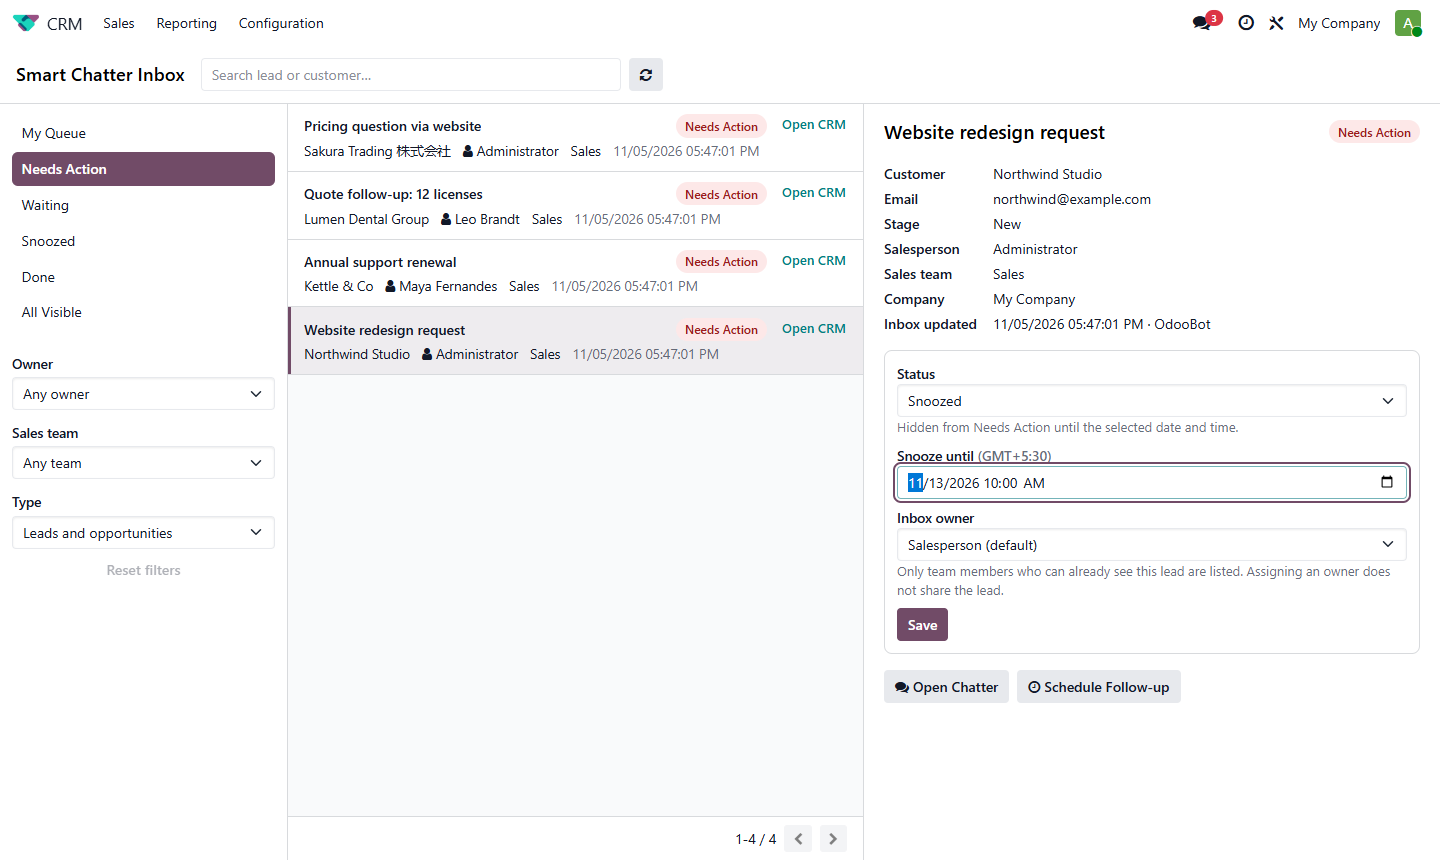
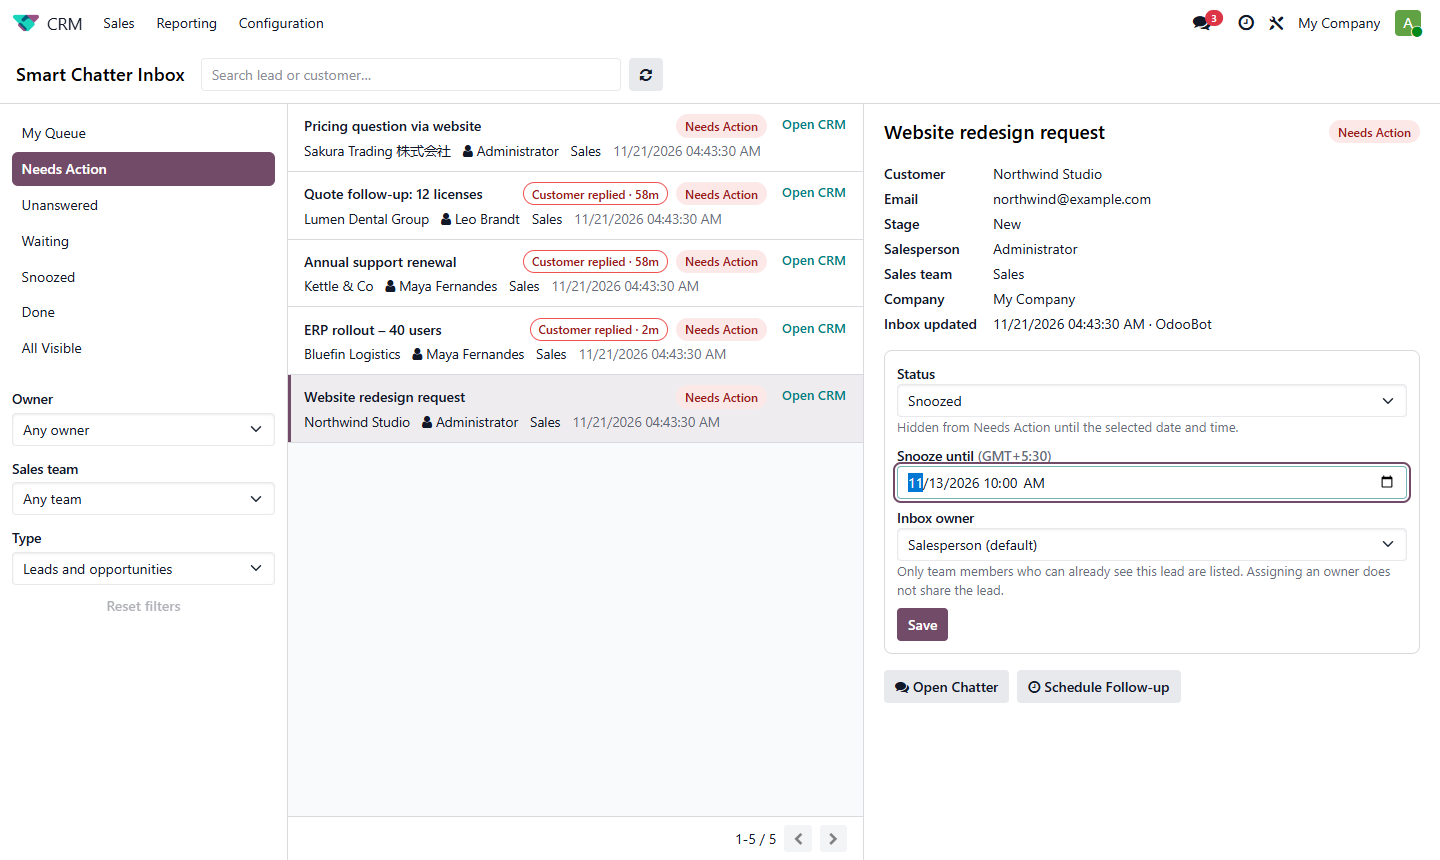
Store listing: Unanswered Leads name, reply-detection demo
- Name "CRM Follow Up Inbox | Unanswered Leads, Reminder & Snooze" and
  summary with "unanswered customer emails" / "unanswered leads"
- Store page: new DETECT demo (gif_reply.gif, a real customer email through
  the mail gateway), Unanswered feature card, two comparison rows, FAQ
  rewritten (how detection works, 17/18 out-of-office caveat), security
  text no longer claims zero privileged code
- hero.png subtitle and numbers.png stats (55+ tests, 4 Odoo versions)
- All GIFs and screenshots re-recorded on 19 with the Unanswered filter
- record_gifs.py: reply scene, snooze date relative to today
- seed_demo.py: restore customer-reply flags on re-run instead of posting
  duplicate emails

diff --git a/sd_smart_chatter_inbox/static/description/index.html b/sd_smart_chatter_inbox/static/description/index.html
@@ -5,8 +5,8 @@
 <!-- ============ HERO ============ -->
 <section class="oe_container" style="padding: 0 0 8px;">
     <img src="hero.png" alt="CRM Follow Up Inbox for Odoo: never lose a lead follow up again. $19 one-time." style="width: 100%; display: block; border-radius: 16px;"/>
-    <h1 style="text-align: center; color: #111827; font-size: 32px; font-weight: 800; margin: 26px 0 6px;">CRM Follow Up Inbox for Odoo: never miss a lead follow up</h1>
-    <p style="text-align: center; color: #4b5563; font-size: 17px; line-height: 1.6; max-width: 820px; margin: 0 auto;">One follow up queue for your whole sales team. See which leads need a reply from you, which are waiting for the customer, snooze a lead until the day you need it, and assign a follow up owner. Works inside Odoo CRM.</p>
+    <h1 style="text-align: center; color: #111827; font-size: 32px; font-weight: 800; margin: 26px 0 6px;">CRM Follow Up Inbox for Odoo: no more unanswered leads</h1>
+    <p style="text-align: center; color: #4b5563; font-size: 17px; line-height: 1.6; max-width: 820px; margin: 0 auto;">One lead follow up queue for your whole sales team. When a customer emails, the lead jumps back to <b>Needs Action</b> and appears in the <b>Unanswered</b> list. When your team replies, it moves to <b>Waiting</b>. Snooze a lead until the day you need it and assign a follow up owner. Works inside Odoo CRM.</p>
     <div style="max-width: 1000px; margin: 22px auto 0; border: 1px solid #c7d2fe; border-radius: 14px; padding: 8px; box-shadow: 0 10px 30px rgba(49,46,129,.18);">
         <img src="gif_filters.gif" alt="Odoo CRM lead follow up queue: search and filter leads by status, owner and team" style="width: 100%; display: block; border-radius: 8px;"/>
     </div>
@@ -33,7 +33,7 @@
             <div style="height: 100%; border: 1px solid #e0e7ff; border-top: 4px solid #4f46e5; border-radius: 12px; padding: 22px;">
                 <p style="font-size: 30px; margin: 0 0 8px;">&#128101;</p>
                 <h3 style="font-size: 20px; font-weight: 700; color: #312e81; margin: 0 0 8px;">Sales teams</h3>
-                <p style="color: #4b5563; font-size: 15px; line-height: 1.6; margin: 0;">Everyone sees which leads are waiting on <b>us</b> and which are waiting on the <b>customer</b>. No more "did anyone reply to this?"</p>
+                <p style="color: #4b5563; font-size: 15px; line-height: 1.6; margin: 0;">Everyone sees which leads are waiting on <b>us</b> and which are waiting on the <b>customer</b>. Customer replies are flagged automatically, so nobody has to ask "did anyone reply to this?"</p>
             </div>
         </div>
         <div class="col-md-4" style="padding: 8px;">
@@ -59,22 +59,29 @@
     <h2 style="text-align: center; color: #111827; font-size: 30px; font-weight: 700; margin: 4px 0 6px;">See it actually happen</h2>
     <p style="text-align: center; color: #4b5563; font-size: 16px; margin: 0 0 28px;">Recorded in a real Odoo database. No mock-ups.</p>
 
+    <div style="border: 1px solid #e0e7ff; border-left: 5px solid #dc2626; border-radius: 12px; padding: 22px; margin-bottom: 26px;">
+        <p style="margin: 0;"><span style="display: inline-block; border: 2px solid #dc2626; color: #dc2626; font-weight: 700; font-size: 13px; padding: 2px 12px; border-radius: 14px;">1 &middot; DETECT</span></p>
+        <h3 style="font-size: 22px; font-weight: 700; color: #111827; margin: 12px 0 6px;">Unanswered leads come back by themselves</h3>
+        <p style="color: #4b5563; font-size: 15px; line-height: 1.6; margin: 0 0 16px;">A customer replies to a lead that was Waiting. The email arrives through Odoo's normal incoming mail, and the lead goes straight back to <b>Needs Action</b> with a <b>Customer replied</b> flag and how long ago they wrote. When your team answers from the chatter, it moves to <b>Waiting</b> again. No one has to triage it by hand.</p>
+        <img src="gif_reply.gif" alt="Odoo CRM unanswered leads: a customer email moves the lead back to Needs Action automatically" style="width: 100%; border-radius: 8px; border: 1px solid #e5e7eb;"/>
+    </div>
+
     <div style="border: 1px solid #e0e7ff; border-left: 5px solid #4f46e5; border-radius: 12px; padding: 22px; margin-bottom: 26px;">
-        <p style="margin: 0;"><span style="display: inline-block; border: 2px solid #4f46e5; color: #4f46e5; font-weight: 700; font-size: 13px; padding: 2px 12px; border-radius: 14px;">1 &middot; TRIAGE</span></p>
+        <p style="margin: 0;"><span style="display: inline-block; border: 2px solid #4f46e5; color: #4f46e5; font-weight: 700; font-size: 13px; padding: 2px 12px; border-radius: 14px;">2 &middot; TRIAGE</span></p>
         <h3 style="font-size: 22px; font-weight: 700; color: #111827; margin: 12px 0 6px;">Set a status and an owner in two clicks</h3>
         <p style="color: #4b5563; font-size: 15px; line-height: 1.6; margin: 0 0 16px;">Select a lead, choose <b>Waiting</b>, pick a team-mate as follow up owner and save. It moves out of Needs Action straight away.</p>
         <img src="gif_triage.gif" alt="Set lead follow up status and follow up owner in Odoo CRM" style="width: 100%; border-radius: 8px; border: 1px solid #e5e7eb;"/>
     </div>
 
     <div style="border: 1px solid #e0e7ff; border-left: 5px solid #2563eb; border-radius: 12px; padding: 22px; margin-bottom: 26px;">
-        <p style="margin: 0;"><span style="display: inline-block; border: 2px solid #2563eb; color: #2563eb; font-weight: 700; font-size: 13px; padding: 2px 12px; border-radius: 14px;">2 &middot; SNOOZE</span></p>
+        <p style="margin: 0;"><span style="display: inline-block; border: 2px solid #2563eb; color: #2563eb; font-weight: 700; font-size: 13px; padding: 2px 12px; border-radius: 14px;">3 &middot; SNOOZE</span></p>
         <h3 style="font-size: 22px; font-weight: 700; color: #111827; margin: 12px 0 6px;">Snooze a lead: a follow up reminder for the right day</h3>
         <p style="color: #4b5563; font-size: 15px; line-height: 1.6; margin: 0 0 16px;">Pick a date and time in your own time zone. When it is due, the lead returns to Needs Action by itself. No scheduled job to configure.</p>
         <img src="gif_snooze.gif" alt="Snooze an Odoo CRM lead until a date and time: follow up reminder" style="width: 100%; border-radius: 8px; border: 1px solid #e5e7eb;"/>
     </div>
 
     <div style="border: 1px solid #e0e7ff; border-left: 5px solid #16a34a; border-radius: 12px; padding: 22px; margin-bottom: 26px;">
-        <p style="margin: 0;"><span style="display: inline-block; border: 2px solid #16a34a; color: #16a34a; font-weight: 700; font-size: 13px; padding: 2px 12px; border-radius: 14px;">3 &middot; ACT</span></p>
+        <p style="margin: 0;"><span style="display: inline-block; border: 2px solid #16a34a; color: #16a34a; font-weight: 700; font-size: 13px; padding: 2px 12px; border-radius: 14px;">4 &middot; ACT</span></p>
         <h3 style="font-size: 22px; font-weight: 700; color: #111827; margin: 12px 0 6px;">Schedule a follow up activity or reply in the chatter</h3>
         <p style="color: #4b5563; font-size: 15px; line-height: 1.6; margin: 0 0 16px;"><b>Schedule Follow-up</b> opens Odoo's own activity dialog. <b>Open Chatter</b> takes you to the lead, where you reply exactly as you do today.</p>
         <img src="gif_chatter.gif" alt="Schedule a follow up activity and open the lead chatter in Odoo" style="width: 100%; border-radius: 8px; border: 1px solid #e5e7eb;"/>
@@ -82,7 +89,7 @@
 
     <div class="row" style="margin: 0; border: 1px solid #e0e7ff; border-left: 5px solid #db2777; border-radius: 12px; padding: 22px 10px; align-items: center;">
         <div class="col-md-6" style="padding: 12px;">
-            <p style="margin: 0;"><span style="display: inline-block; border: 2px solid #db2777; color: #db2777; font-weight: 700; font-size: 13px; padding: 2px 12px; border-radius: 14px;">4 &middot; ON THE GO</span></p>
+            <p style="margin: 0;"><span style="display: inline-block; border: 2px solid #db2777; color: #db2777; font-weight: 700; font-size: 13px; padding: 2px 12px; border-radius: 14px;">5 &middot; ON THE GO</span></p>
             <h3 style="font-size: 22px; font-weight: 700; color: #111827; margin: 12px 0 6px;">Works on phones and tablets</h3>
             <p style="color: #4b5563; font-size: 15px; line-height: 1.6; margin: 0;">Three panes on desktop, a filter drawer on tablets, and a simple list-then-details flow on phones. Clear your queue from anywhere.</p>
         </div>
@@ -107,7 +114,7 @@
             <div style="height: 100%; border: 2px solid #c7d2fe; border-radius: 12px; padding: 22px;">
                 <p style="font-size: 40px; font-weight: 800; margin: 0; color: #4f46e5; line-height: 1;">02</p>
                 <h3 style="color: #111827; font-size: 20px; font-weight: 700; margin: 10px 0 6px;">Fill the queue</h3>
-                <p style="color: #4b5563; font-size: 15px; line-height: 1.6; margin: 0;">Turn on <b>Include untriaged leads</b> in CRM Settings, or set a status on the <b>Smart Inbox</b> tab of any lead.</p>
+                <p style="color: #4b5563; font-size: 15px; line-height: 1.6; margin: 0;">Customer emails add leads to the queue by themselves. To start with every open lead, turn on <b>Include untriaged leads</b> in CRM Settings.</p>
             </div>
         </div>
         <div class="col-md-4" style="padding: 8px;">
@@ -122,11 +129,14 @@
 
 <!-- ============ FEATURES ============ -->
 <section class="oe_container" style="padding: 44px 12px 8px;">
-    <h2 style="text-align: center; color: #111827; font-size: 30px; font-weight: 700; margin: 0 0 6px;">Lead follow up features: reminder, snooze, owner</h2>
+    <h2 style="text-align: center; color: #111827; font-size: 30px; font-weight: 700; margin: 0 0 6px;">Lead follow up features: unanswered leads, reminder, snooze, owner</h2>
     <p style="text-align: center; color: #4b5563; font-size: 16px; margin: 0 0 24px;">Nothing it doesn't.</p>
     <div class="row" style="margin: 0;">
         <div class="col-md-4 col-sm-6" style="padding: 8px;"><div style="height: 100%; border: 1px solid #e5e7eb; border-radius: 12px; padding: 18px;">
-            <h4 style="font-size: 17px; font-weight: 700; color: #111827; margin: 0 0 6px;"><span style="color: #dc2626;">&#9679;</span> Four clear statuses</h4>
+            <h4 style="font-size: 17px; font-weight: 700; color: #111827; margin: 0 0 6px;"><span style="color: #dc2626;">&#9679;</span> Unanswered leads, detected automatically</h4>
+            <p style="color: #4b5563; font-size: 14px; line-height: 1.6; margin: 0;">A customer email moves the lead to Needs Action and the <b>Unanswered</b> list. Your team's reply moves it to Waiting. Notes, automated emails and mass mailings are ignored.</p></div></div>
+        <div class="col-md-4 col-sm-6" style="padding: 8px;"><div style="height: 100%; border: 1px solid #e5e7eb; border-radius: 12px; padding: 18px;">
+            <h4 style="font-size: 17px; font-weight: 700; color: #111827; margin: 0 0 6px;"><span style="color: #d97706;">&#9679;</span> Four clear statuses</h4>
             <p style="color: #4b5563; font-size: 14px; line-height: 1.6; margin: 0;">Needs Action, Waiting, Done and Snoozed, plus quick views for <b>My Queue</b> and <b>All Visible</b>.</p></div></div>
         <div class="col-md-4 col-sm-6" style="padding: 8px;"><div style="height: 100%; border: 1px solid #e5e7eb; border-radius: 12px; padding: 18px;">
             <h4 style="font-size: 17px; font-weight: 700; color: #111827; margin: 0 0 6px;"><span style="color: #4f46e5;">&#9679;</span> Follow up owner</h4>
@@ -144,9 +154,6 @@
             <h4 style="font-size: 17px; font-weight: 700; color: #111827; margin: 0 0 6px;"><span style="color: #7c3aed;">&#9679;</span> Status on the lead form</h4>
             <p style="color: #4b5563; font-size: 14px; line-height: 1.6; margin: 0;">A <b>Smart Inbox</b> tab on every lead lets you triage it without leaving the form.</p></div></div>
         <div class="col-md-4 col-sm-6" style="padding: 8px;"><div style="height: 100%; border: 1px solid #e5e7eb; border-radius: 12px; padding: 18px;">
-            <h4 style="font-size: 17px; font-weight: 700; color: #111827; margin: 0 0 6px;"><span style="color: #dc2626;">&#9679;</span> Keyboard friendly</h4>
-            <p style="color: #4b5563; font-size: 14px; line-height: 1.6; margin: 0;">Arrow keys move through the list, focus is always visible, and screen readers get proper labels.</p></div></div>
-        <div class="col-md-4 col-sm-6" style="padding: 8px;"><div style="height: 100%; border: 1px solid #e5e7eb; border-radius: 12px; padding: 18px;">
             <h4 style="font-size: 17px; font-weight: 700; color: #111827; margin: 0 0 6px;"><span style="color: #4f46e5;">&#9679;</span> Multi-company aware</h4>
             <p style="color: #4b5563; font-size: 14px; line-height: 1.6; margin: 0;">Only companies enabled in the company switcher are shown, and the company filter respects them.</p></div></div>
         <div class="col-md-4 col-sm-6" style="padding: 8px;"><div style="height: 100%; border: 1px solid #e5e7eb; border-radius: 12px; padding: 18px;">
@@ -157,7 +164,7 @@
 
 <!-- ============ NUMBERS ============ -->
 <section class="oe_container" style="padding: 44px 12px 8px;">
-    <img src="numbers.png" alt="$19 one-time, under 100 ms server time per page, under 10 SQL queries per page, 40 automated tests, 0 sudo calls" style="width: 100%; display: block; border-radius: 16px;"/>
+    <img src="numbers.png" alt="$19 one-time, under 100 ms server time per page, under 10 SQL queries per page, 55+ automated tests, 4 Odoo versions: 17 to 20" style="width: 100%; display: block; border-radius: 16px;"/>
     <p style="text-align: center; color: #6b7280; font-size: 13px; margin: 10px 0 0;">Measured on a test database with 10,000 opportunities and 100,000 chatter messages (server-side, p95).</p>
 </section>
 
@@ -167,7 +174,7 @@
         <div class="col-md-6" style="padding: 12px;">
             <p style="color: #4f46e5; font-weight: 700; letter-spacing: .12em; font-size: 13px; margin: 0;">SECURITY &amp; GOVERNANCE</p>
             <h2 style="color: #111827; font-size: 28px; font-weight: 700; margin: 6px 0 12px;">It never shows more than Odoo already allows</h2>
-            <p style="color: #4b5563; font-size: 15px; line-height: 1.65; margin: 0;">Every list, count, filter and update runs as the logged-in user with your normal access rights and record rules. The app has no superuser shortcuts, so a salesperson who can only see their own leads sees only their own leads here too.</p>
+            <p style="color: #4b5563; font-size: 15px; line-height: 1.65; margin: 0;">Every list, count, filter and update runs as the logged-in user with your normal access rights and record rules, so a salesperson who can only see their own leads sees only their own leads here too. The one privileged step is reply detection: when a message is posted on a lead, it updates that lead's own follow up status, and shows nothing to anyone.</p>
         </div>
         <div class="col-md-6" style="padding: 12px;">
             <div style="border: 1px solid #e0e7ff; border-left: 4px solid #4f46e5; border-radius: 10px; padding: 11px 14px; margin-bottom: 8px; color: #1f2937; font-size: 15px;">&#128274; Respects record rules, multi-company and team visibility</div>
@@ -190,6 +197,8 @@
                 <th style="padding: 14px; text-align: center; color: #312e81; font-weight: 700;">With this app</th>
             </tr>
             <tr style="border-bottom: 1px solid #e5e7eb;"><td style="padding: 12px 14px; color: #1f2937;">Which conversations are waiting on us?</td><td style="padding: 12px 14px; text-align: center; color: #9ca3af;">Open each lead</td><td style="padding: 12px 14px; text-align: center; color: #15803d; font-weight: 700;">&#10003; Needs Action list</td></tr>
+            <tr style="border-bottom: 1px solid #e5e7eb;"><td style="padding: 12px 14px; color: #1f2937;">Which leads did the customer reply to?</td><td style="padding: 12px 14px; text-align: center; color: #9ca3af;">Open each lead</td><td style="padding: 12px 14px; text-align: center; color: #15803d; font-weight: 700;">&#10003; Unanswered list</td></tr>
+            <tr style="border-bottom: 1px solid #e5e7eb;"><td style="padding: 12px 14px; color: #1f2937;">Move a lead back when the customer writes?</td><td style="padding: 12px 14px; text-align: center; color: #9ca3af;">By hand</td><td style="padding: 12px 14px; text-align: center; color: #15803d; font-weight: 700;">&#10003; Automatic</td></tr>
             <tr style="border-bottom: 1px solid #e5e7eb;"><td style="padding: 12px 14px; color: #1f2937;">Which ones are waiting on the customer?</td><td style="padding: 12px 14px; text-align: center; color: #9ca3af;">Not tracked</td><td style="padding: 12px 14px; text-align: center; color: #15803d; font-weight: 700;">&#10003; Waiting list</td></tr>
             <tr style="border-bottom: 1px solid #e5e7eb;"><td style="padding: 12px 14px; color: #1f2937;">Who is following this up?</td><td style="padding: 12px 14px; text-align: center; color: #9ca3af;">Salesperson only</td><td style="padding: 12px 14px; text-align: center; color: #15803d; font-weight: 700;">&#10003; Separate follow up owner</td></tr>
             <tr style="border-bottom: 1px solid #e5e7eb;"><td style="padding: 12px 14px; color: #1f2937;">Hide it until next Tuesday at 10:00?</td><td style="padding: 12px 14px; text-align: center; color: #9ca3af;">&#10007;</td><td style="padding: 12px 14px; text-align: center; color: #15803d; font-weight: 700;">&#10003; Snooze</td></tr>
@@ -213,7 +222,7 @@
 <!-- ============ ALSO KNOWN AS ============ -->
 <section class="oe_container" style="padding: 32px 12px 0;">
     <div style="max-width: 880px; margin: 0 auto; border: 1px dashed #c7d2fe; border-radius: 12px; padding: 16px 18px;">
-        <p style="color: #4b5563; font-size: 15px; line-height: 1.7; margin: 0;"><b style="color: #312e81;">Looking for something else by name?</b> Teams use this app as a <b>sales follow up tracker</b>, <b>lead follow up reminder</b>, <b>CRM to-do list</b>, <b>shared sales inbox</b>, <b>lead snooze</b>, <b>follow up management</b> and <b>CRM activity queue</b> for Odoo 17, 18, 19 and 20, Community and Enterprise.</p>
+        <p style="color: #4b5563; font-size: 15px; line-height: 1.7; margin: 0;"><b style="color: #312e81;">Looking for something else by name?</b> Teams use this app as an <b>unanswered leads list</b>, <b>customer reply tracker</b>, <b>sales follow up tracker</b>, <b>lead follow up reminder</b>, <b>CRM to-do list</b>, <b>shared sales inbox</b>, <b>lead snooze</b>, <b>follow up management</b> and <b>CRM activity queue</b> for Odoo 17, 18, 19 and 20, Community and Enterprise.</p>
     </div>
 </section>
 
@@ -222,12 +231,16 @@
     <h2 style="text-align: center; color: #111827; font-size: 28px; font-weight: 700; margin: 0 0 22px;">FAQ</h2>
     <div style="max-width: 880px; margin: 0 auto;">
         <div style="border: 1px solid #e5e7eb; border-radius: 12px; padding: 16px 18px; margin-bottom: 10px;">
-            <p style="font-weight: 700; color: #312e81; font-size: 16px; margin: 0 0 6px;">Does it read or send emails?</p>
-            <p style="color: #4b5563; font-size: 15px; line-height: 1.6; margin: 0;">No. It does not connect to Gmail, Outlook or IMAP and sends nothing. Your team replies in the lead's chatter exactly as before. The statuses are your team's own workflow; the app does not guess whether an email was answered.</p>
+            <p style="font-weight: 700; color: #312e81; font-size: 16px; margin: 0 0 6px;">How does it know a lead is unanswered?</p>
+            <p style="color: #4b5563; font-size: 15px; line-height: 1.6; margin: 0;">It looks at who wrote the last message on the lead. A customer email that reaches the lead through Odoo's normal incoming mail (your mail alias or mail server) flags it <b>Unanswered</b> and moves it to Needs Action. A message your team sends from the chatter moves it to Waiting. Internal notes, automated emails, mass mailings and OdooBot are ignored. It does not track whether an email was opened. On Odoo 17 and 18, out-of-office auto-replies also count as a customer message. You can turn detection off in CRM Settings.</p>
+        </div>
+        <div style="border: 1px solid #e5e7eb; border-radius: 12px; padding: 16px 18px; margin-bottom: 10px;">
+            <p style="font-weight: 700; color: #312e81; font-size: 16px; margin: 0 0 6px;">Does it send emails or connect to Gmail or Outlook?</p>
+            <p style="color: #4b5563; font-size: 15px; line-height: 1.6; margin: 0;">No. It sends nothing and adds no mail connection. It works with the emails Odoo already logs on your leads, and your team replies in the lead's chatter exactly as before.</p>
         </div>
         <div style="border: 1px solid #e5e7eb; border-radius: 12px; padding: 16px 18px; margin-bottom: 10px;">
             <p style="font-weight: 700; color: #312e81; font-size: 16px; margin: 0 0 6px;">Why is my inbox empty after installing?</p>
-            <p style="color: #4b5563; font-size: 15px; line-height: 1.6; margin: 0;">Installing changes none of your existing leads. Turn on <b>Include untriaged leads</b> in CRM Settings to show every open lead, or set a status on a lead's <b>Smart Inbox</b> tab.</p>
+            <p style="color: #4b5563; font-size: 15px; line-height: 1.6; margin: 0;">Installing changes none of your existing leads and does not scan old emails. Leads join the queue when a customer writes next, or when you set a status on a lead's <b>Smart Inbox</b> tab. To see every open lead straight away, turn on <b>Include untriaged leads</b> in CRM Settings.</p>
         </div>
         <div style="border: 1px solid #e5e7eb; border-radius: 12px; padding: 16px 18px; margin-bottom: 10px;">
             <p style="font-weight: 700; color: #312e81; font-size: 16px; margin: 0 0 6px;">Who can use it?</p>

diff --git a/sd_smart_chatter_inbox/__manifest__.py b/sd_smart_chatter_inbox/__manifest__.py
@@ -1,6 +1,6 @@
 {
-    "name": "CRM Follow Up Inbox | Lead Follow Up, Reminder & Snooze",
-    "summary": "Lead follow up inbox for Odoo CRM: follow up reminder queue, snooze leads, assign follow up owner, track leads waiting for reply. Sales follow up tracker for teams.",
+    "name": "CRM Follow Up Inbox | Unanswered Leads, Reminder & Snooze",
+    "summary": "Lead follow up inbox for Odoo CRM: detects unanswered customer emails automatically, unanswered leads list, follow up reminder queue, snooze leads, assign follow up owner, track leads waiting for reply. Sales follow up tracker for teams.",
     "version": "17.0.1.1.0",
     "category": "Sales/CRM",
     "author": "Softdeviser",

diff --git a/sd_smart_chatter_inbox/CHANGELOG.md b/sd_smart_chatter_inbox/CHANGELOG.md
@@ -4,6 +4,7 @@
 
 - Reply detection: a customer email or message moves the lead to Needs Action and marks it "Customer replied"; a team reply from the chatter moves Needs Action to Waiting. Notes, automated messages, mass mailings and OdooBot are ignored.
 - New "Unanswered" quick filter, "Customer replied" chip with age, and last customer message / last team reply dates in the details pane and on the lead form.
+- Store listing renamed to "CRM Follow Up Inbox | Unanswered Leads, Reminder & Snooze", with a new reply-detection demo and re-recorded GIFs and screenshots.
 - New setting "Detect customer replies automatically" (on by default). Existing leads and old messages are not changed on upgrade.
 - Tests: 14 reply-detection tests through the real mail gateway, 2 more QUnit tests and a tour step.
 

diff --git a/sd_smart_chatter_inbox/README.md b/sd_smart_chatter_inbox/README.md
@@ -20,7 +20,7 @@ A CRM follow-up queue. Each lead or opportunity gets a follow-up status (**Needs
 
 ## Installation
 1. Copy `sd_smart_chatter_inbox` into a folder on your `addons_path`.
-2. Update the Apps list and install **CRM Follow Up Inbox | Lead Follow Up, Reminder & Snooze** (technical name `sd_smart_chatter_inbox`).
+2. Update the Apps list and install **CRM Follow Up Inbox | Unanswered Leads, Reminder & Snooze** (technical name `sd_smart_chatter_inbox`).
 3. Give users the group **Smart Chatter Inbox / User** (Settings > Users > Access Rights > Sales section). The administrator gets it on install.
 4. Optional: CRM > Configuration > Settings > **Include untriaged leads**. **Detect customer replies automatically** is on by default; it only reacts to messages posted after install.
 
